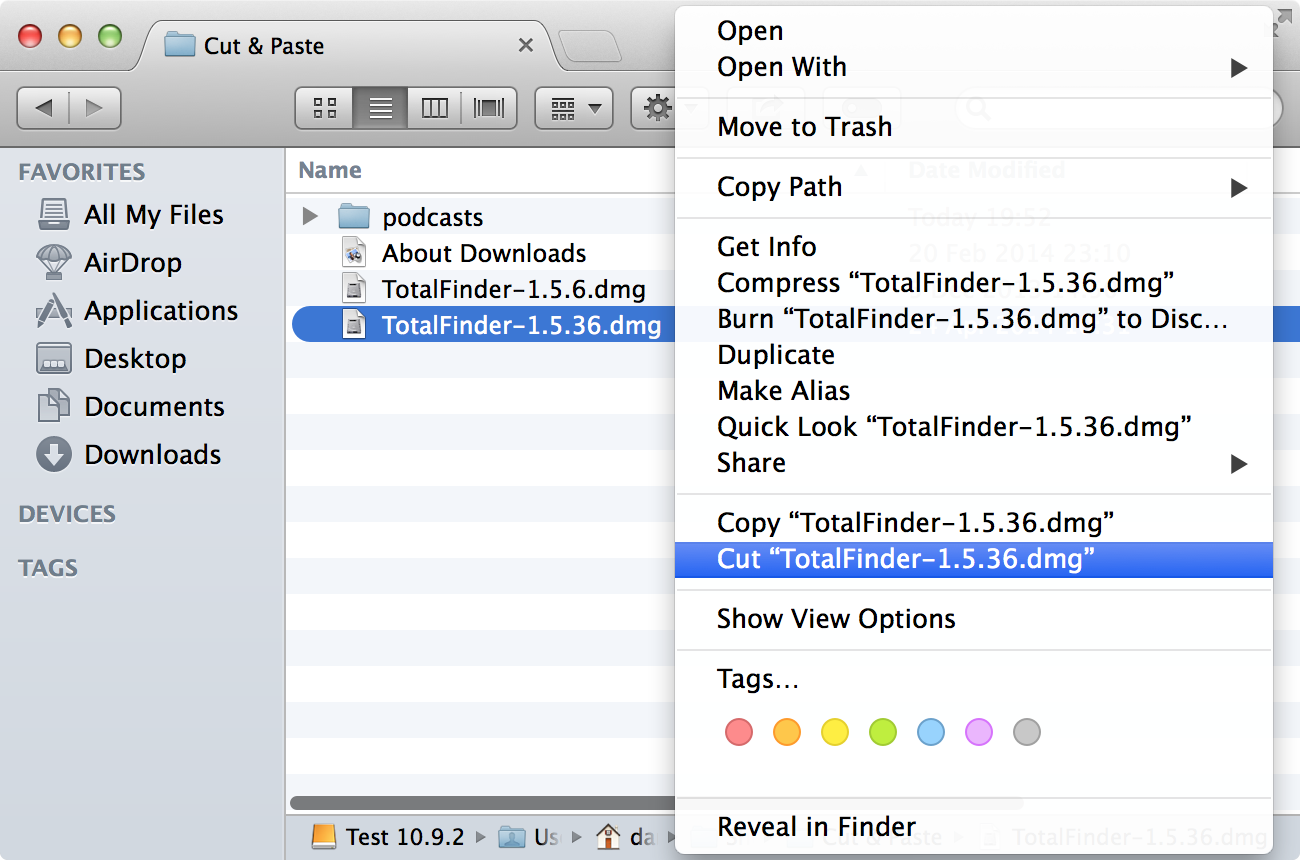
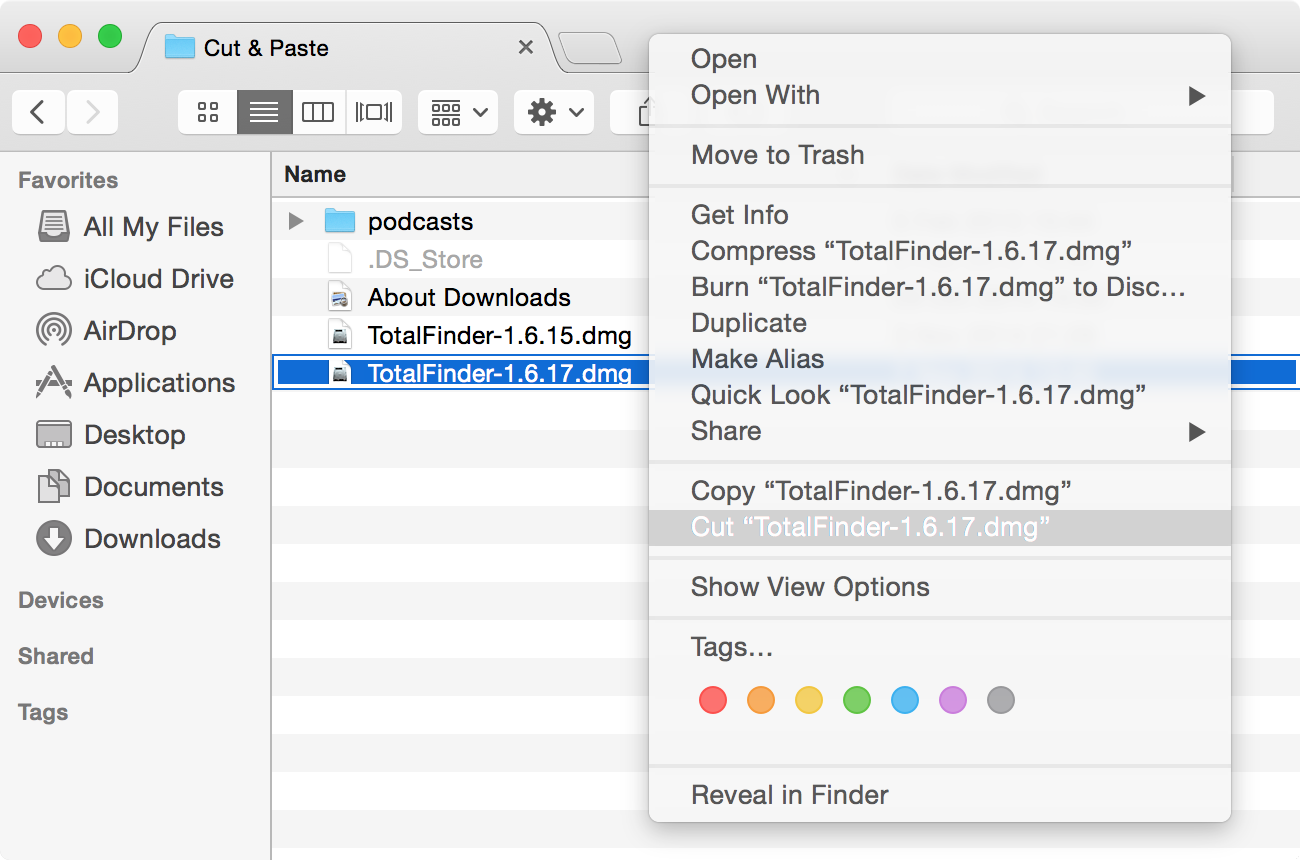
yosemite screenshots on homepage

diff --git a/index.md b/index.md
@@ -60,8 +60,8 @@ shots: [{
 }]
 highlights: [{
   title: "Colored labels",
-  description: "Brings full colors back into Mavericks.",
-  style: "background: transparent url('/images/showcase/full-clabels.png') no-repeat -270px -100px / 650px 430px",
+  description: "Brings full colors back into Yosemite.",
+  style: "background: transparent url('/images/showcase/full-clabels.png') no-repeat -274px -100px / 650px 430px",
   screenshot: 1
 },{
   title: "Folders on top",
@@ -71,12 +71,12 @@ highlights: [{
 },{
   title: "Chrome tabs",
   description: "Apple finally introduced tabs in Mavericks. TotalFinder added Chrome tabs in Snow Leopard.",
-  style: "background: transparent url('/images/showcase/full-tabs.png') no-repeat -352px -56px / 650px 430px",
+  style: "background: transparent url('/images/showcase/full-tabs.png') no-repeat -350px -96px / 650px 430px",
   screenshot: 3
 },{
   title: "Dual mode",
   description: "Display two Finder windows side-by-side on hot-key.",
-  style: "background: transparent url('/images/showcase/full-dual.png') no-repeat -246px -0px / 1000px 621px",
+  style: "background: transparent url('/images/showcase/full-dual.png') no-repeat -244px -0px / 1000px 621px",
   screenshot: 4
 },{
   title: "Visor window",
@@ -86,7 +86,7 @@ highlights: [{
 },{
   title: "Cut &amp; Paste",
   description: "Use keyboard shortcuts to move files around. Faster than drag &amp; drop.",
-  style: "background: transparent url('/images/showcase/full-cut.png') no-repeat -330px -250px / 650px 430px",
+  style: "background: transparent url('/images/showcase/full-cut.png') no-repeat -320px -240px / 650px 430px",
   screenshot: 6
 }]
 ---
